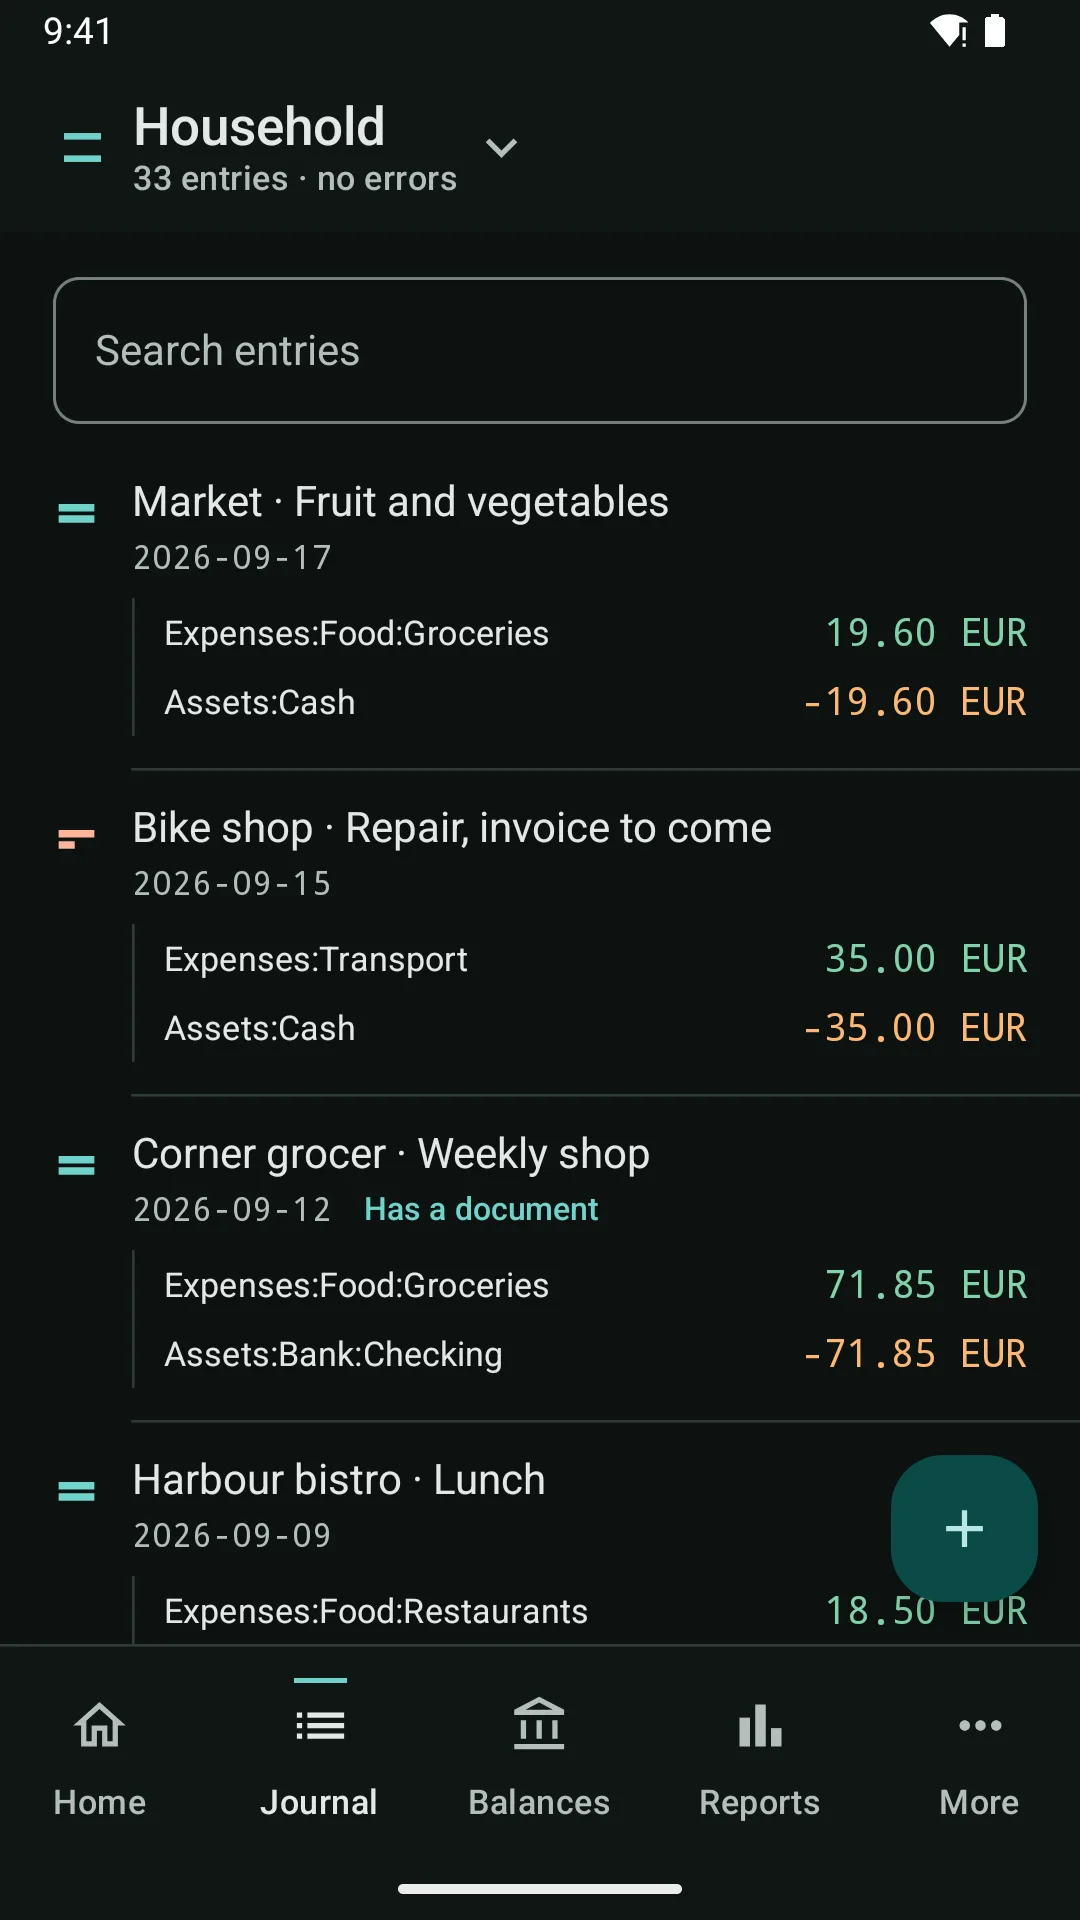
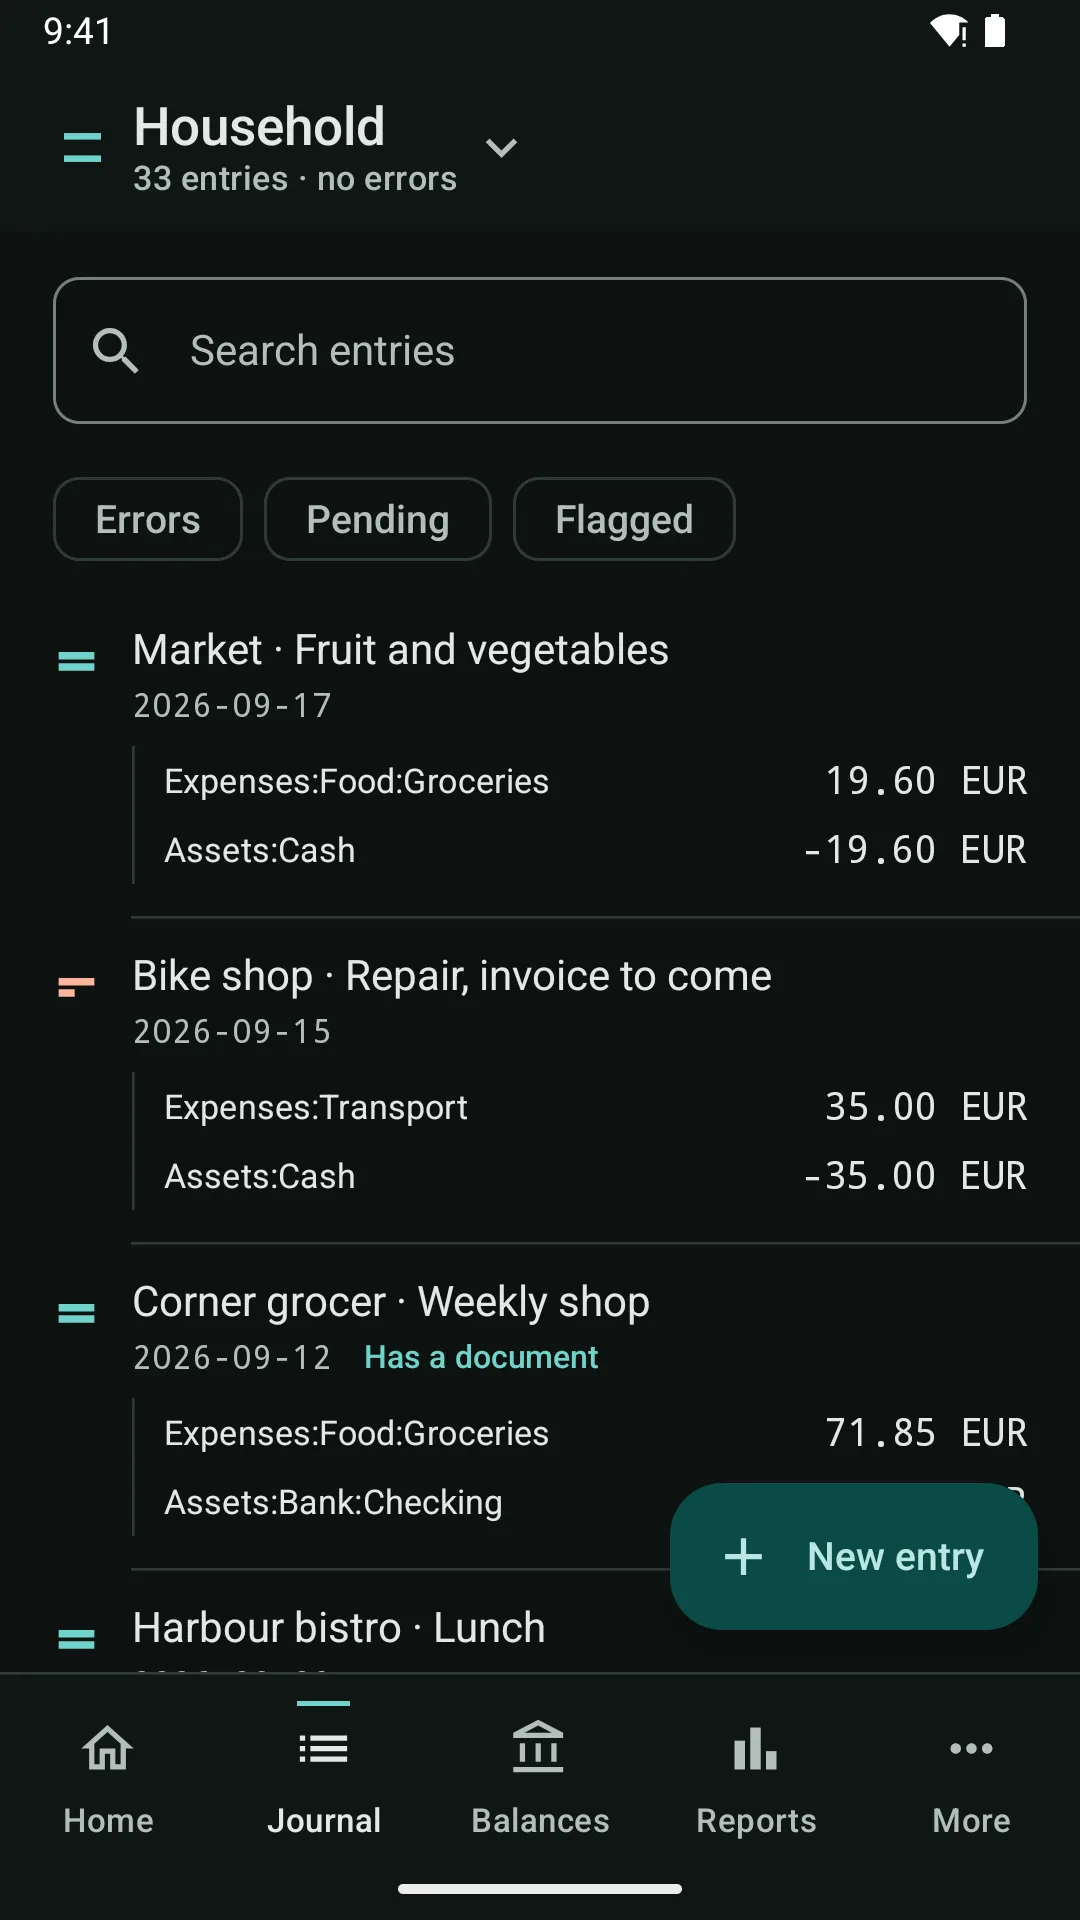
site: current screenshots, Ko-fi button, drop Android 9 / 32-bit notes; dark social preview

diff --git a/site/support.html b/site/support.html
@@ -97,9 +97,12 @@
               browser. It unlocks nothing: everything is already yours.
             </p>
             <p>
-              The Expert edition mentions it once, after a week of use. The Play
-              edition does not link to it, because Google Play's payment rules
-              do not allow an app to point at a payment page outside Play.
+              <a href="https://ko-fi.com/pintofi"><img src="https://storage.ko-fi.com/cdn/kofi3.png?v=3" height="64" alt="Support Beanbook on Ko-fi" /></a>
+            </p>
+            <p>
+              The Expert edition links to it from About. The Play edition does
+              not, because Google Play's payment rules do not allow an app to
+              point at a payment page outside Play.
             </p>
           </div>
         </div>

diff --git a/site/download.html b/site/download.html
@@ -153,12 +153,12 @@
             <p class="figure">
               <strong><span data-roll>10</span>+</strong>
               <span class="figure-unit">Android</span>
-              <span>Android 10 (API 29) or later. Android 9 is not supported.</span>
+              <span>Android 10 (API 29) or later.</span>
             </p>
             <p class="figure">
               <strong>64-bit</strong>
               <span class="figure-unit">Processor</span>
-              <span>arm64-v8a and x86_64. There is no 32-bit build.</span>
+              <span>arm64-v8a and x86_64.</span>
             </p>
           </div>
           <div class="callout">

diff --git a/site/help.html b/site/help.html
@@ -235,10 +235,6 @@
               </p>
             </article>
             <article class="tile">
-              <h3>No 32-bit support</h3>
-              <p>Only arm64-v8a and x86_64 builds are provided.</p>
-            </article>
-            <article class="tile">
               <h3>No reading of receipt text</h3>
               <p>
                 The app keeps photos and PDFs of receipts, but does not read the text on them yet.

diff --git a/docs/editions.md b/docs/editions.md
@@ -38,7 +38,7 @@ fetcher, including what it costs in storage.
 
 Both editions are free, with every feature and nothing to unlock: no trial, no tiers, no keys.
 If Beanbook is useful to you and you would like to help it along, the project accepts
-donations on Ko-fi. The Expert edition mentions that once, after a week of use; the Play
+donations on Ko-fi. The Expert edition links to it from About; the Play
 edition does not link to it, because Google Play's rules on payments do not allow it
 ([distribution.md 4.2](distribution.md)). The page is
 [ko-fi.com/pintofi](https://ko-fi.com/pintofi).

diff --git a/fixtures/site-screenshots/README.md b/fixtures/site-screenshots/README.md
@@ -6,7 +6,7 @@ The two PDFs under `household/documents/` are generated placeholders, not real r
 
 ## Recapturing
 
-The published set was captured on 2026-09-19 from the Expert debug build of commit `1b791f0`
+The published set was captured on 2026-10-13 from the Expert debug build
 on the `s1_api36` emulator: 1080 x 1920, 420 dpi, font scale 1.0, en-US, portrait.
 
 1. Install the Expert debug build and clear its data (`adb shell pm clear <package>`).
